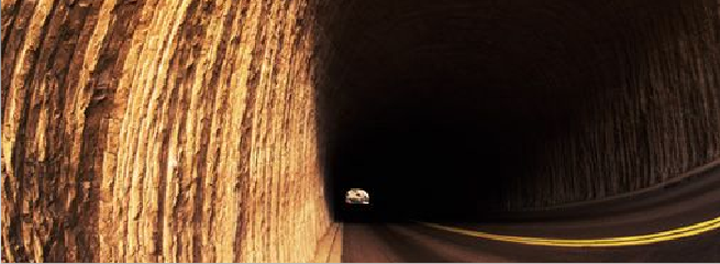
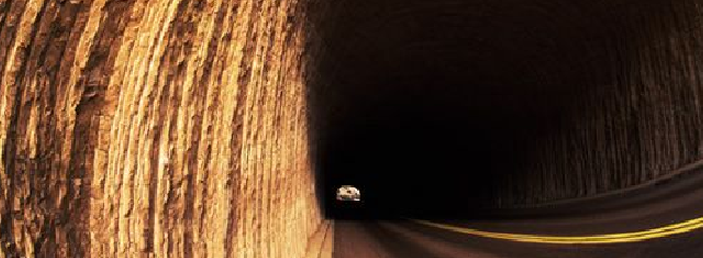
Style homepage header material

diff --git a/_site/css/style.css b/_site/css/style.css
@@ -18,15 +18,15 @@ h1 h2 h3 h4 h5 h6 a {
 	font-family: Trebuchet MS, verdana, arial, helvetica;
 }
 h1 {
-	font-size: 4vh;
+	font-size: 36px;
 	font-weight: bold;
 }
 h2 {
-	font-size: 3vw;
+	font-size: 24px;
 	font-weight: bold;
 }
 h3 {
-	font-size: 1vw;
+	font-size: 20px;
 }
 
 a {
@@ -50,19 +50,18 @@ a:hover {
 }
 
 /* NAV STYLES */
-.nav-container {
+.homepage-hero {
 	align-items: center;
-	background: rgb(96,96,96);
-	background: linear-gradient(202deg, rgba(96,96,96,1) 59%, rgba(170,170,170,1) 100%);
-	border-left: 10px solid #000;
-	padding-left: 2px;
-	display: flex;
+	border-left: 10px solid #606060;
+  display: flex;
+  flex: 1;
 }
 .homepage-nav {
 	align-items: center;
-	flex-grow: fill;
-	flex-basis: 0;
-	min-width: 15vw;
+  /* background: rgb(96,96,96); */
+	background: linear-gradient(202deg, rgba(96,96,96,1) 59%, rgba(170,170,170,1) 100%);
+	flex: 1 0 auto;
+  padding-left: 2px;
 }
 .homepage-nav ul {
 	color: #ffffff;
@@ -77,11 +76,34 @@ a:hover {
 	padding-bottom: 0.5em;
 }
 .homepage-rotator {
-	flex-basis: 45em;
+	flex: 2 1 0;
+  height: 240px;
 }
 .homepage-rotator img {
+  height: inherit;
 }
 
+.home-content {
+  display: flex;
+  flex-direction: row;
+}
+.home-getstarted {
+  border-left: 10px solid #606060;
+  flex: 1;
+  padding: 0 2px 0;
+}
+.home-getstarted img {
+  flex: 1 1 auto;
+}
+.home-copy {
+  flex: 1 0 auto;
+}
+.home-news {
+
+}
+.home-headline {
+
+}
 /* OTHER STYLES */
 .forminput {
 	border:1px solid black;
@@ -200,7 +222,7 @@ a:hover {
 }
 
 
-#homecontent{
+.homecontent{
 	 float:left;
 	 width:700px;
 	 margin-top:5px;

diff --git a/css/style.css b/css/style.css
@@ -18,15 +18,15 @@ h1 h2 h3 h4 h5 h6 a {
 	font-family: Trebuchet MS, verdana, arial, helvetica;
 }
 h1 {
-	font-size: 4vh;
+	font-size: 36px;
 	font-weight: bold;
 }
 h2 {
-	font-size: 3vw;
+	font-size: 24px;
 	font-weight: bold;
 }
 h3 {
-	font-size: 1vw;
+	font-size: 20px;
 }
 
 a {
@@ -50,18 +50,18 @@ a:hover {
 }
 
 /* NAV STYLES */
-.nav-container {
+.homepage-hero {
 	align-items: center;
-	background: rgb(96,96,96);
-	background: linear-gradient(202deg, rgba(96,96,96,1) 59%, rgba(170,170,170,1) 100%);
-	border-left: 10px solid #000;
-	padding-left: 2px;
-	display: flex;
+	border-left: 10px solid #606060;
+  display: flex;
+  flex: 1;
 }
 .homepage-nav {
 	align-items: center;
-  flex: 1 1 auto;
-	min-width: 15vw;
+  /* background: rgb(96,96,96); */
+	background: linear-gradient(202deg, rgba(96,96,96,1) 59%, rgba(170,170,170,1) 100%);
+	flex: 1 0 auto;
+  padding-left: 2px;
 }
 .homepage-nav ul {
 	color: #ffffff;
@@ -77,10 +77,33 @@ a:hover {
 }
 .homepage-rotator {
 	flex: 2 1 0;
+  height: 240px;
 }
 .homepage-rotator img {
+  height: inherit;
 }
 
+.home-content {
+  display: flex;
+  flex-direction: row;
+}
+.home-getstarted {
+  border-left: 10px solid #606060;
+  flex: 1;
+  padding: 0 2px 0;
+}
+.home-getstarted img {
+  flex: 1 1 auto;
+}
+.home-copy {
+  flex: 1 0 auto;
+}
+.home-news {
+
+}
+.home-headline {
+
+}
 /* OTHER STYLES */
 .forminput {
 	border:1px solid black;
@@ -199,7 +222,7 @@ a:hover {
 }
 
 
-#homecontent{
+.homecontent{
 	 float:left;
 	 width:700px;
 	 margin-top:5px;

diff --git a/_site/index.html b/_site/index.html
@@ -31,7 +31,7 @@
 </header>
 
     <div class="content-container">
-      <div class="nav-container">
+      <div class="homepage-hero">
   <div class="homepage-nav">
     <ul>
       <li><a href="#">Menu 1</a></li>
@@ -45,17 +45,17 @@
 </div>
 
 <div class="home-content">
-  <div class="getstarted">
-    <img src="images/h_startphoto.png" alt="Start Here"/>
+  <div class="home-getstarted">
+    <img src="images/h_startphoto.png" alt="Intro to The Oldham Group"/>
       <div class="home-copy">
         	<h3>Getting Started</h3>
            	<p>We'd love to talk to you. If you are looking for a solution we'd love the opportunity to show you how we can shine. We have solutions for areas throughout your business - in graphic arts as well as general industry. </p>
             	<a class="cta" href="contactform.php?tab=0">Click here to request information</a>
       </div>
   </div>
-    <div class="news" >
+    <div class="home-news" >
       <img src="images/h_newsphoto.png" alt="News"/>
-      <div id="textcontain">
+      <div id="home-headline">
         <h3>Recent Headlines</h3>
       </div>
     </div>

diff --git a/index.html b/index.html
@@ -3,17 +3,17 @@ layout: default
 ---
 {% include homepage-menu.html %}
 <div class="home-content">
-  <div class="getstarted">
-    <img src="images/h_startphoto.png" alt="Start Here"/>
+  <div class="home-getstarted">
+    <img src="images/h_startphoto.png" alt="Intro to The Oldham Group"/>
       <div class="home-copy">
         	<h3>Getting Started</h3>
            	<p>We'd love to talk to you. If you are looking for a solution we'd love the opportunity to show you how we can shine. We have solutions for areas throughout your business - in graphic arts as well as general industry. </p>
             	<a class="cta" href="contactform.php?tab=0">Click here to request information</a>
       </div>
   </div>
-    <div class="news" >
+    <div class="home-news" >
       <img src="images/h_newsphoto.png" alt="News"/>
-      <div id="textcontain">
+      <div id="home-headline">
         <h3>Recent Headlines</h3>
       </div>
     </div>

diff --git a/_includes/homepage-menu.html b/_includes/homepage-menu.html
@@ -1,4 +1,4 @@
-<div class="nav-container">
+<div class="homepage-hero">
   <div class="homepage-nav">
     <ul>
       <li><a href="#">Menu 1</a></li>
